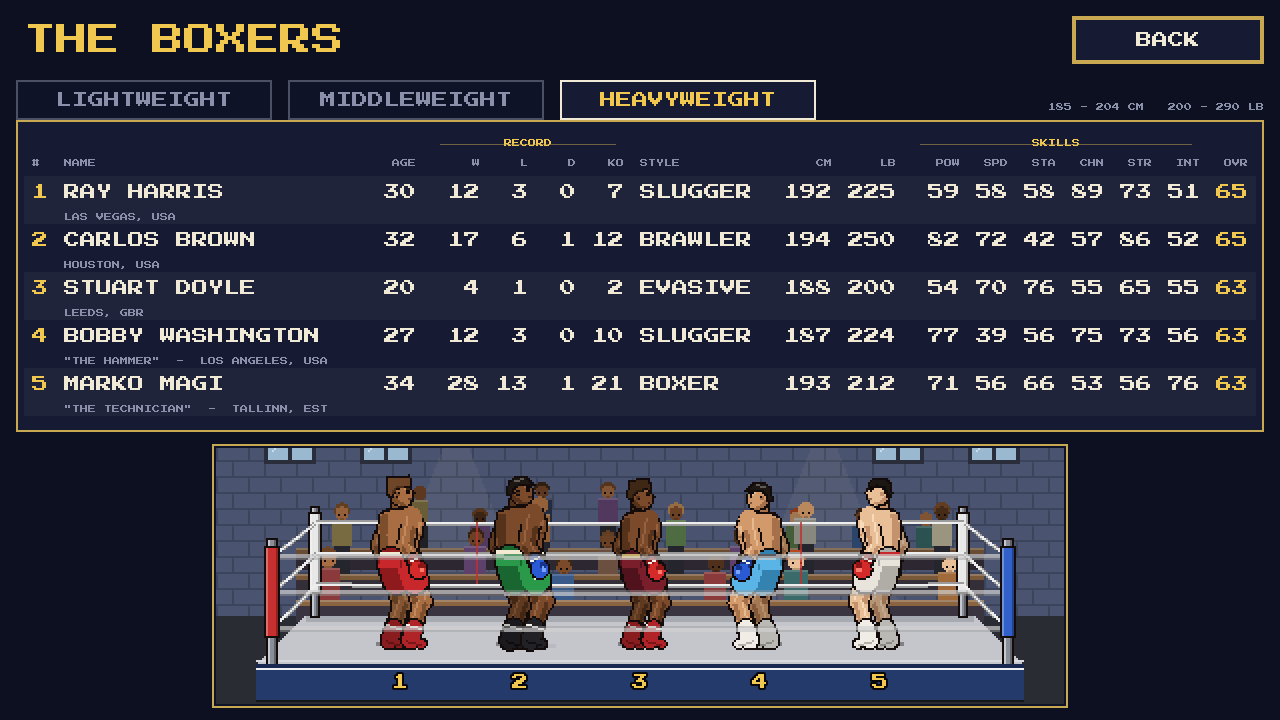
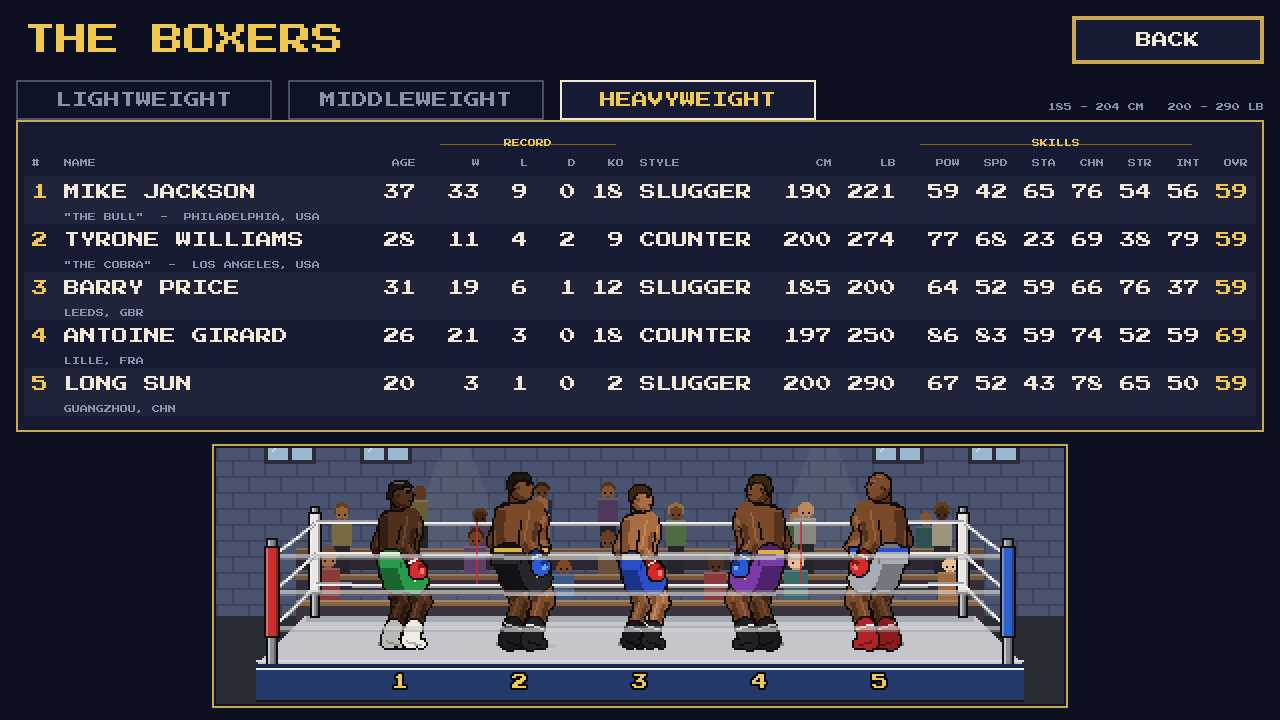
Heavyweight roster spans the full weight range (seed 1989, wider spread)
Claude-Session: https://claude.ai/code/session_01PF6KKrB4uHprcLjw7ppdzy

diff --git a/README.md b/README.md
@@ -131,7 +131,7 @@ boxers from the same division (picked at random, like the venue).
 | Middleweight | 170 - 198 cm | 154 - 160 lb | The baseline                                        |
 | Heavyweight  | 185 - 204 cm | 200 - 290 lb | Slower, hits much harder, far more knockouts        |
 
-Each division's roster is the same every run (seeds 1983, 1985 and 1987 in
+Each division's roster is the same every run (seeds 1983, 1985 and 1989 in
 `scripts/data/divisions.gd`; pass `--roster=<n>` for a different set).
 **BOXERS** on the main menu has a tab per division: a table of age, record,
 style, height, weight, all six skills and an overall rating, with the whole
